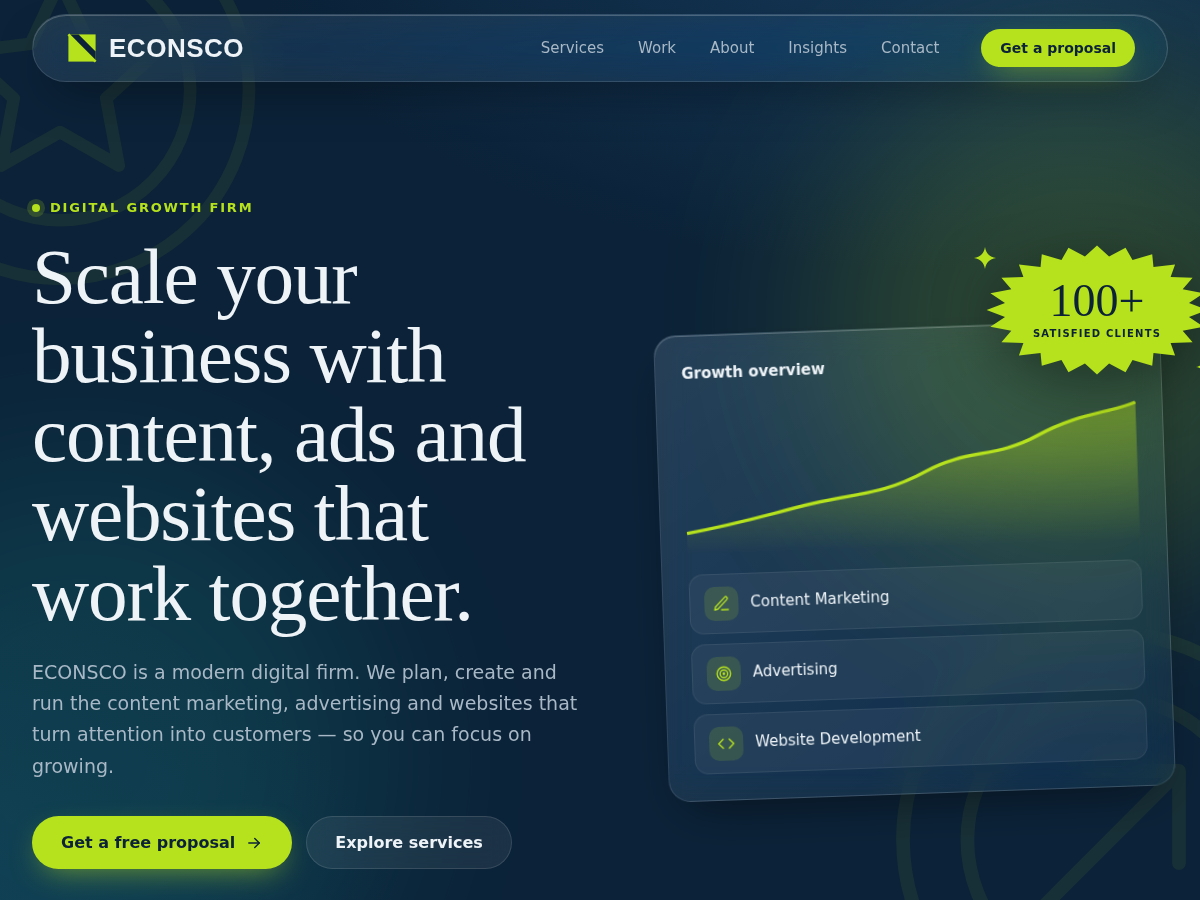
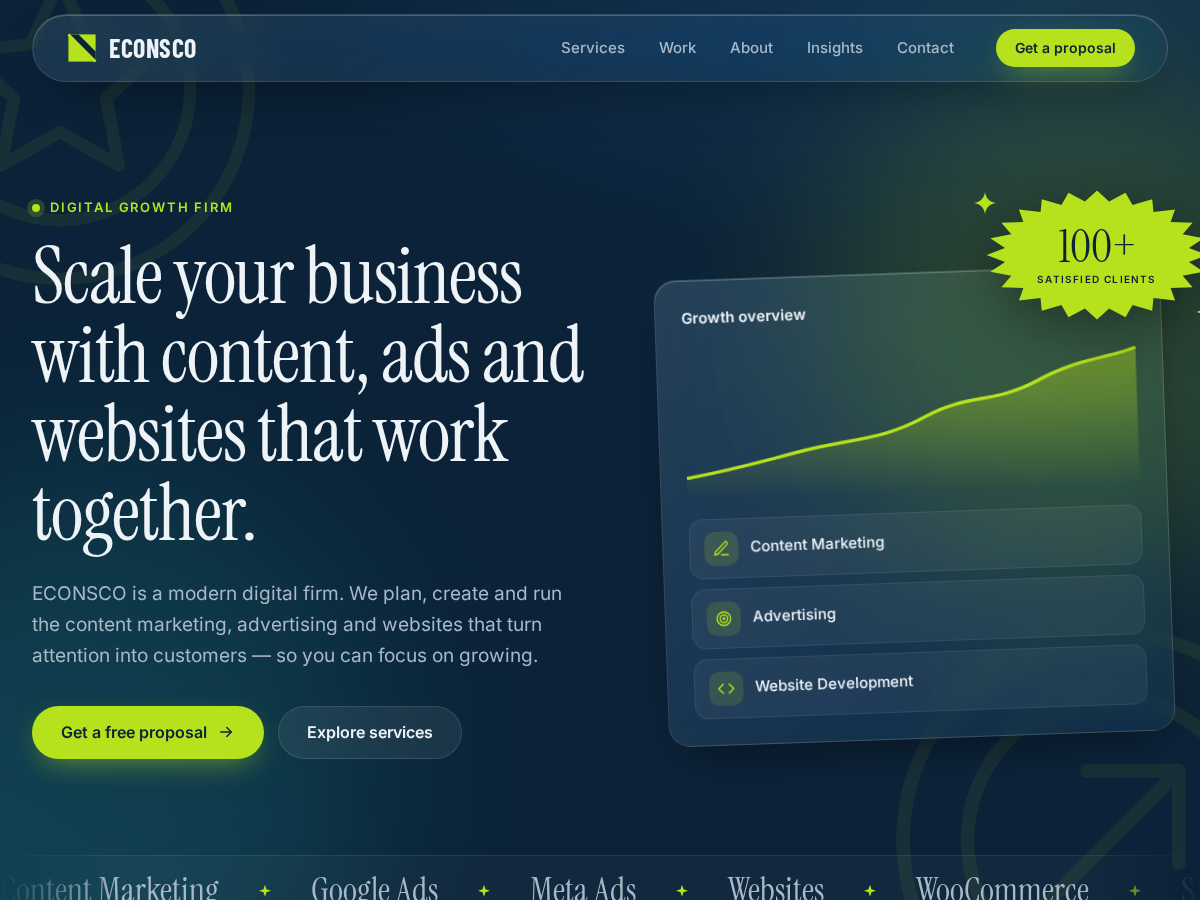
Highlight ECONSCO's operating locations
Add a "Where we operate" section (Jaén, Spain; Jakarta, Indonesia;
Belfast, United Kingdom) with glass flag cards and each office's live
local time. Shown on the Home and About pages, as an offices list on the
Contact page, and as a line in the footer. Advertising copy now names
euros, pounds and rupiah to match these markets.

Claude-Session: https://claude.ai/code/session_01PR24wKR635Pjgm4Nbj7Lnk

diff --git a/econsco-wordpress/econsco/assets/css/main.css b/econsco-wordpress/econsco/assets/css/main.css
@@ -1260,6 +1260,146 @@ figcaption {
 	text-align: center;
 }
 
+/* ---------- Locations ---------- */
+
+.location {
+	padding: 14px;
+	overflow: hidden;
+	transition: transform 0.3s, border-color 0.3s;
+}
+
+.location:hover {
+	transform: translateY(-6px);
+	border-color: rgba(182, 226, 29, 0.4);
+}
+
+.location__flag {
+	position: relative;
+	aspect-ratio: 3 / 2;
+	border-radius: var(--radius-sm);
+	overflow: hidden;
+	box-shadow: 0 14px 30px -14px rgba(0, 0, 0, 0.7);
+}
+
+.location__flag .flag {
+	width: 100%;
+	height: 100%;
+}
+
+/* Glass sheen across the flag. */
+.location__flag::after {
+	content: "";
+	position: absolute;
+	inset: 0;
+	background: linear-gradient(120deg, rgba(255, 255, 255, 0.35) 0%, rgba(255, 255, 255, 0.05) 38%, transparent 55%, rgba(11, 34, 56, 0.25) 100%);
+	border: 1px solid rgba(255, 255, 255, 0.25);
+	border-radius: inherit;
+}
+
+.location__body {
+	padding: 22px 12px 10px;
+}
+
+.location__city {
+	font-family: var(--font-display);
+	font-size: clamp(34px, 3.4vw, 44px);
+	line-height: 1;
+	margin-bottom: 10px;
+}
+
+.location__country {
+	display: flex;
+	align-items: center;
+	gap: 8px;
+	color: var(--muted);
+	margin-bottom: 18px;
+}
+
+.location__country .icon {
+	width: 18px;
+	height: 18px;
+	color: var(--lime);
+}
+
+.location__time {
+	display: inline-flex;
+	align-items: center;
+	gap: 8px;
+	margin: 0;
+	padding: 6px 14px;
+	border-radius: 999px;
+	background: rgba(255, 255, 255, 0.06);
+	border: 1px solid var(--glass-border);
+	font-size: 14px;
+}
+
+.location__time time {
+	font-weight: 600;
+	font-variant-numeric: tabular-nums;
+}
+
+.location__time span:last-child {
+	color: var(--muted);
+}
+
+.location__dot {
+	width: 8px;
+	height: 8px;
+	border-radius: 50%;
+	background: var(--lime);
+	box-shadow: 0 0 0 4px rgba(182, 226, 29, 0.18);
+}
+
+.location__time time:empty + span {
+	display: none;
+}
+
+.location__time:has(time:empty) {
+	display: none;
+}
+
+.info-card.info-card--offices {
+	display: block;
+}
+
+.office-list {
+	list-style: none;
+	margin: 12px 0 0;
+	padding: 0;
+	display: grid;
+	gap: 12px;
+}
+
+.office-list li {
+	display: flex;
+	align-items: center;
+	gap: 12px;
+}
+
+.office-list__flag {
+	flex-shrink: 0;
+	width: 36px;
+	height: 24px;
+	border-radius: 5px;
+	overflow: hidden;
+	box-shadow: 0 0 0 1px rgba(255, 255, 255, 0.2);
+}
+
+.office-list__flag .flag {
+	width: 100%;
+	height: 100%;
+}
+
+.office-list__name {
+	flex: 1;
+}
+
+.office-list time {
+	color: var(--muted);
+	font-size: 14px;
+	font-variant-numeric: tabular-nums;
+}
+
 /* ---------- CTA ---------- */
 
 .cta {

diff --git a/econsco-wordpress/econsco/assets/js/main.js b/econsco-wordpress/econsco/assets/js/main.js
@@ -19,6 +19,21 @@
 		});
 	}
 
+	// Live local time for each office.
+	var clocks = document.querySelectorAll('time[data-tz]');
+	function tick() {
+		var now = new Date();
+		clocks.forEach(function (el) {
+			try {
+				el.textContent = now.toLocaleTimeString([], { hour: '2-digit', minute: '2-digit', timeZone: el.getAttribute('data-tz') });
+			} catch (e) {}
+		});
+	}
+	if (clocks.length) {
+		tick();
+		setInterval(tick, 30000);
+	}
+
 	var items = document.querySelectorAll('.reveal');
 	if (!('IntersectionObserver' in window)) {
 		items.forEach(function (el) { el.classList.add('is-visible'); });

diff --git a/econsco-wordpress/econsco/inc/icons.php b/econsco-wordpress/econsco/inc/icons.php
@@ -35,3 +35,47 @@ function econsco_icon( $name ) {
 	}
 	return '<svg class="icon icon-' . esc_attr( $name ) . '" width="24" height="24" viewBox="0 0 24 24" fill="none" stroke="currentColor" stroke-width="1.8" stroke-linecap="round" stroke-linejoin="round" aria-hidden="true" focusable="false">' . $paths[ $name ] . '</svg>';
 }
+
+/**
+ * Flag artwork (3:2) for the locations section.
+ */
+function econsco_flag( $code ) {
+	static $n = 0;
+	$n++;
+	switch ( $code ) {
+		case 'es':
+			$body = '<rect width="60" height="40" fill="#c60b1e"/><rect y="10" width="60" height="20" fill="#ffc400"/>'
+				// Simplified coat of arms: pillars, crowned quartered shield.
+				. '<g stroke="#8a6d0b" stroke-width=".25">'
+				. '<rect x="12.2" y="14.5" width="1.8" height="12" fill="#e8e8e8"/><rect x="25" y="14.5" width="1.8" height="12" fill="#e8e8e8"/>'
+				. '<rect x="11.6" y="13.4" width="3" height="1.2" fill="#c8a415"/><rect x="24.4" y="13.4" width="3" height="1.2" fill="#c8a415"/>'
+				. '<rect x="11.6" y="26.4" width="3" height="1.2" fill="#c8a415"/><rect x="24.4" y="26.4" width="3" height="1.2" fill="#c8a415"/>'
+				. '<path d="M11 19.5h4.4v1.4H11zM23.6 19.5H28v1.4h-4.4z" fill="#c60b1e"/>'
+				. '<path d="M15.5 12.2l1-2 1.5 1.2 1.5-1.8 1.5 1.8 1.5-1.2 1 2z" fill="#c8a415"/>'
+				. '<path d="M15.6 12.8h7.8v1.2h-7.8z" fill="#c8a415"/>'
+				. '<path d="M15.6 14.2h7.8v6.8a3.9 3.9 0 0 1-7.8 0Z" fill="#fff"/>'
+				. '<path d="M15.6 14.2h3.9v3.6h-3.9Z" fill="#c60b1e"/>'
+				. '<path d="M15.6 17.8h3.9v6.9a3.9 3.9 0 0 1-3.9-3.7Z" fill="#ffc400"/>'
+				. '<path d="M19.5 17.8h3.9V21a3.9 3.9 0 0 1-3.9 3.9Z" fill="#c60b1e"/>'
+				. '</g>'
+				. '<path d="M16.4 18.4v5.4M17.4 18.4v6M18.4 18.4v6.2" stroke="#c60b1e" stroke-width=".5"/>'
+				. '<path d="M16.5 16.9v-1.6h.6v.5h.5v-.5h.6v.5h.5v-.5h.6v1.6z" fill="#ffc400"/>'
+				. '<circle cx="21.45" cy="16" r="1" fill="#c60b1e" opacity=".6"/>';
+			break;
+		case 'id':
+			$body = '<rect width="60" height="40" fill="#fff"/><rect width="60" height="20" fill="#ce1126"/>';
+			break;
+		case 'gb':
+			$clip = 'ec-gb-' . $n;
+			$body = '<defs><clipPath id="' . $clip . '"><path d="M30 20h30v20zv20H0zH0V0zV0h30z"/></clipPath></defs>'
+				. '<rect width="60" height="40" fill="#012169"/>'
+				. '<path d="M0 0l60 40M60 0L0 40" stroke="#fff" stroke-width="8"/>'
+				. '<path d="M0 0l60 40M60 0L0 40" stroke="#c8102e" stroke-width="4" clip-path="url(#' . $clip . ')"/>'
+				. '<path d="M30 0v40M0 20h60" stroke="#fff" stroke-width="12"/>'
+				. '<path d="M30 0v40M0 20h60" stroke="#c8102e" stroke-width="7"/>';
+			break;
+		default:
+			return '';
+	}
+	return '<svg class="flag" viewBox="0 0 60 40" preserveAspectRatio="xMidYMid slice" aria-hidden="true" focusable="false">' . $body . '</svg>';
+}

diff --git a/econsco-wordpress/econsco/inc/content.php b/econsco-wordpress/econsco/inc/content.php
@@ -41,7 +41,7 @@ function econsco_services() {
 			'id'      => 'advertising',
 			'icon'    => 'target',
 			'title'   => __( 'Advertising', 'econsco' ),
-			'summary' => __( 'Paid campaigns that reach the right people at the right moment, with every rupee, dollar and dirham tracked back to results.', 'econsco' ),
+			'summary' => __( 'Paid campaigns that reach the right people at the right moment, with every euro, pound and rupiah tracked back to results.', 'econsco' ),
 			'points'  => array(
 				__( 'Google Search, Display and YouTube Ads', 'econsco' ),
 				__( 'Meta (Facebook & Instagram) and TikTok Ads', 'econsco' ),
@@ -109,5 +109,16 @@ function econsco_example_work() {
 		array( 'tag' => __( 'Website + Ads', 'econsco' ), 'title' => __( 'E-commerce launch', 'econsco' ), 'text' => __( 'A WooCommerce store paired with Meta and Google Shopping campaigns to drive first sales.', 'econsco' ) ),
 		array( 'tag' => __( 'Content', 'econsco' ), 'title' => __( 'B2B content engine', 'econsco' ), 'text' => __( 'An SEO blog and LinkedIn content programme that generates inbound leads every month.', 'econsco' ) ),
 		array( 'tag' => __( 'Ads', 'econsco' ), 'title' => __( 'Local lead generation', 'econsco' ), 'text' => __( 'Search and social campaigns with landing pages built to turn clicks into booked calls.', 'econsco' ) ),
+	);
+}
+
+/**
+ * Offices shown in the "Where we operate" section, footer and contact page.
+ */
+function econsco_locations() {
+	return array(
+		array( 'flag' => 'es', 'city' => __( 'Jaén', 'econsco' ), 'country' => __( 'Spain', 'econsco' ), 'tz' => 'Europe/Madrid' ),
+		array( 'flag' => 'id', 'city' => __( 'Jakarta', 'econsco' ), 'country' => __( 'Indonesia', 'econsco' ), 'tz' => 'Asia/Jakarta' ),
+		array( 'flag' => 'gb', 'city' => __( 'Belfast', 'econsco' ), 'country' => __( 'United Kingdom', 'econsco' ), 'tz' => 'Europe/London' ),
 	);
 }

diff --git a/econsco-wordpress/econsco/template-parts/locations.php b/econsco-wordpress/econsco/template-parts/locations.php
@@ -1,0 +1,28 @@
+<?php
+/**
+ * "Where we operate" section: one glass card per office with its flag and live local time.
+ *
+ * @package econsco
+ */
+?>
+<section class="section" id="locations">
+	<div class="container">
+		<div class="section-head reveal">
+			<p class="eyebrow"><?php esc_html_e( 'Where we operate', 'econsco' ); ?></p>
+			<h2 class="section-title"><?php esc_html_e( 'Three hubs, one team.', 'econsco' ); ?></h2>
+			<p class="section-lead"><?php esc_html_e( 'We work from Spain, Indonesia and the United Kingdom — close to clients across Europe and Asia, with someone on the clock across time zones.', 'econsco' ); ?></p>
+		</div>
+		<div class="grid grid--3">
+			<?php foreach ( econsco_locations() as $index => $location ) : ?>
+				<article class="location glass reveal" style="--delay: <?php echo esc_attr( $index * 80 ); ?>ms">
+					<div class="location__flag"><?php echo econsco_flag( $location['flag'] ); // phpcs:ignore WordPress.Security.EscapeOutput ?></div>
+					<div class="location__body">
+						<h3 class="location__city"><?php echo esc_html( $location['city'] ); ?></h3>
+						<p class="location__country"><?php echo econsco_icon( 'pin' ); // phpcs:ignore WordPress.Security.EscapeOutput ?><?php echo esc_html( $location['country'] ); ?></p>
+						<p class="location__time"><span class="location__dot"></span><time data-tz="<?php echo esc_attr( $location['tz'] ); ?>"></time> <span><?php esc_html_e( 'local time', 'econsco' ); ?></span></p>
+					</div>
+				</article>
+			<?php endforeach; ?>
+		</div>
+	</div>
+</section>

diff --git a/econsco-wordpress/econsco/page-contact.php b/econsco-wordpress/econsco/page-contact.php
@@ -20,6 +20,18 @@ econsco_page_hero(
 		</div>
 
 		<aside class="contact__info">
+			<div class="info-card info-card--offices glass">
+				<h2 class="info-card__title"><?php esc_html_e( 'Our offices', 'econsco' ); ?></h2>
+				<ul class="office-list">
+					<?php foreach ( econsco_locations() as $location ) : ?>
+						<li>
+							<span class="office-list__flag"><?php echo econsco_flag( $location['flag'] ); // phpcs:ignore WordPress.Security.EscapeOutput ?></span>
+							<span class="office-list__name"><?php echo esc_html( $location['city'] . ', ' . $location['country'] ); ?></span>
+							<time data-tz="<?php echo esc_attr( $location['tz'] ); ?>"></time>
+						</li>
+					<?php endforeach; ?>
+				</ul>
+			</div>
 			<div class="info-card glass">
 				<span class="icon-badge"><?php echo econsco_icon( 'mail' ); // phpcs:ignore WordPress.Security.EscapeOutput ?></span>
 				<div>

diff --git a/econsco-wordpress/econsco/footer.php b/econsco-wordpress/econsco/footer.php
@@ -61,6 +61,7 @@ $econsco_socials = array_filter(
 					<?php if ( econsco_opt( 'phone' ) ) : ?>
 						<li><?php echo econsco_icon( 'phone' ); // phpcs:ignore WordPress.Security.EscapeOutput ?><a href="tel:<?php echo esc_attr( preg_replace( '/[^0-9+]/', '', econsco_opt( 'phone' ) ) ); ?>"><?php echo esc_html( econsco_opt( 'phone' ) ); ?></a></li>
 					<?php endif; ?>
+					<li><?php echo econsco_icon( 'pin' ); // phpcs:ignore WordPress.Security.EscapeOutput ?><a href="<?php echo esc_url( home_url( '/#locations' ) ); ?>"><?php echo esc_html( implode( ' · ', wp_list_pluck( econsco_locations(), 'city' ) ) ); ?></a></li>
 					<?php if ( econsco_opt( 'address' ) ) : ?>
 						<li><?php echo econsco_icon( 'pin' ); // phpcs:ignore WordPress.Security.EscapeOutput ?><span><?php echo nl2br( esc_html( econsco_opt( 'address' ) ) ); ?></span></li>
 					<?php endif; ?>

diff --git a/econsco-wordpress/econsco/front-page.php b/econsco-wordpress/econsco/front-page.php
@@ -179,6 +179,8 @@ if ( $econsco_recent->have_posts() ) :
 	</section>
 <?php endif; ?>
 
+<?php get_template_part( 'template-parts/locations' ); ?>
+
 <?php get_template_part( 'template-parts/cta' ); ?>
 
 <?php

diff --git a/econsco-wordpress/econsco/page-about.php b/econsco-wordpress/econsco/page-about.php
@@ -64,6 +64,7 @@ econsco_page_hero(
 </section>
 
 <?php
+get_template_part( 'template-parts/locations' );
 econsco_page_editor_content();
 get_template_part( 'template-parts/cta' );
 get_footer();

diff --git a/econsco-wordpress/README.md b/econsco-wordpress/README.md
@@ -14,6 +14,10 @@ lime (`#b6e21d`) colours.
   page and Insights as the blog, builds the main menu, adds a "Case Studies" category and
   switches permalinks to `/%postname%/`. Pages, menus and settings you already have are
   left alone.
+- **Where we operate:** the Home, About and Contact pages and the footer highlight the
+  offices in Jaén (Spain), Jakarta (Indonesia) and Belfast (United Kingdom). Each has a flag
+  and its live local time. To change the offices, edit `econsco_locations()` in
+  `econsco/inc/content.php`.
 - **Contact form:** built in, with no plugin needed. Messages are emailed to the address in
   the Customizer (or the admin email if that's blank). It has spam protection (a nonce plus
   a hidden honeypot field).
